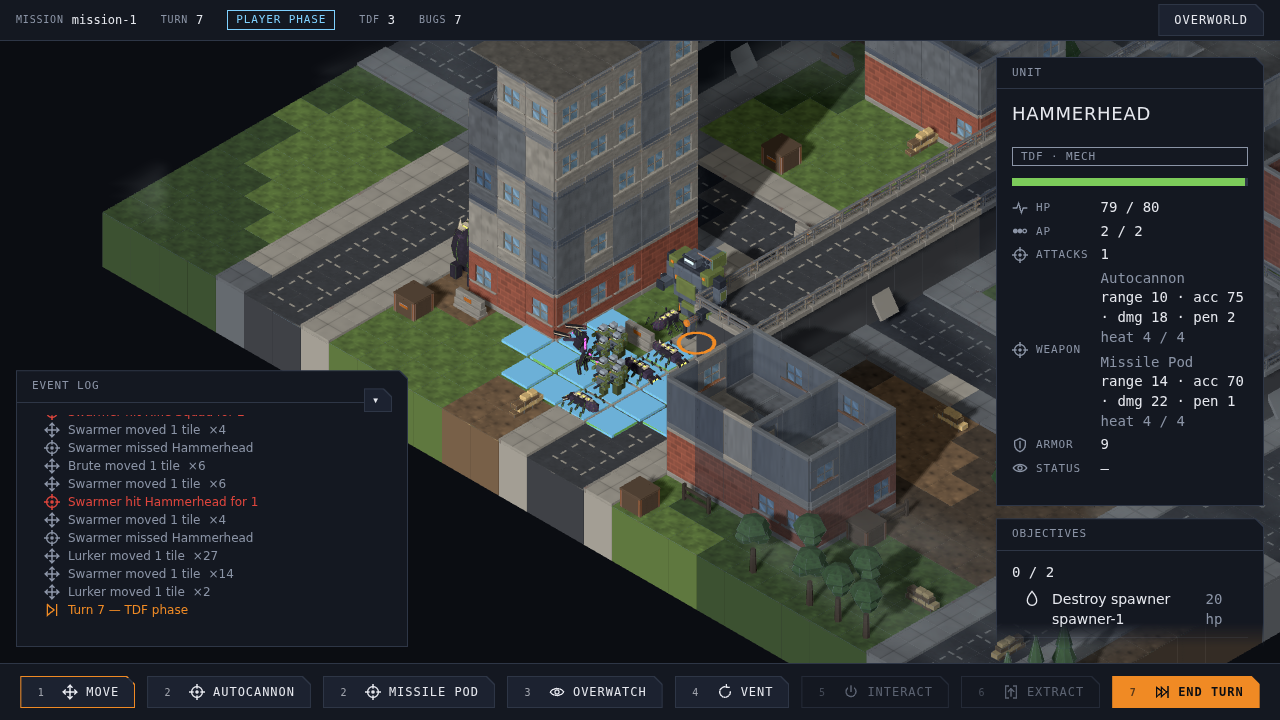
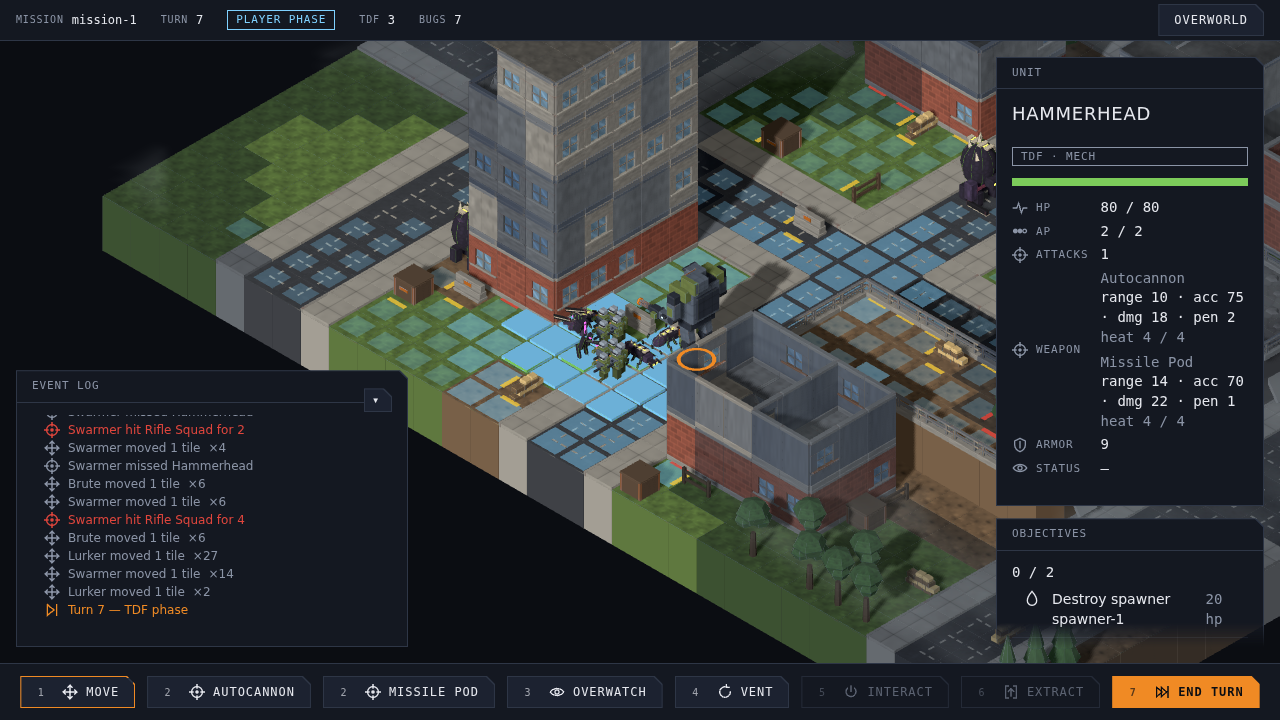
fix(mapgen): no raised feature carries a road; roads never dead-end into a face (#785) (#789)
Executive Director ruling from playtest 2: a lifted carriageway reads as
a road on a column, and the lower road it crosses dies into a black
wall. The simulation treats a raised tile as solid ground, so pillars
and an underpass would promise a route the player cannot take; a real
overpass is M3's. The elevation pass now skips every feature whose top
surface is road (viaduct, causeway). Terraces stay: plaza, podium,
raised-park, rail-embankment, rubble-mound, terrace.

Pinned in the generation sweep, over every seed of the matrix and the
wide sweep: every pair of orthogonally adjacent road tiles on different
levels is joined by a connector. Measured before the change, twelve
city maps per size: 234 / 532 / 781 unconnected steps. After: 0 on
every map of the matrix. Towns already held it (their plat ramps carry
the step); rural has no road steps at all.

Cost, city maps, 24 seeds per size: features placed 3.0 / 9.1 / 18.2
-> 1.0 / 3.7 / 9.8 -- the viaduct carried weight 8 of 27 and most of
the placements. Mech reach unchanged. A medium city can now place no
terrace on a given seed (coastal/0 does), so the "outdoor high ground"
test asserts over the set (>= 75 % of seeds) rather than per seed; the
#444 band was already breached by #762 and is further from reach now,
recorded rather than tuned.

Golden moved: golden-city only. Renders regenerated: the preview control
for seed 730982385 with the art path and no fog, and both seed-4242 fog
[…]

diff --git a/src/mapgen/generator/elevation-pass.test.ts b/src/mapgen/generator/elevation-pass.test.ts
@@ -49,7 +49,19 @@ describe("ElevationPass", () => {
     expect(pass.provides).toEqual(["elevation"]);
   });
 
-  it("gives a city outdoor ground a mech can stand on above the plat", () => {
+  it("gives city outdoor ground a mech can stand on above the plat", () => {
+    // City plats are graded flat, so this was zero on every seed before
+    // the pass (#444). The point is that outdoor height exists and that a
+    // mech is allowed on it. It was asserted per seed at 60+ tiles while
+    // viaducts carried most of the share; #785 disabled every
+    // road-surfaced feature and #762 keeps the rest a column off every
+    // lot, and a medium city can now place no terrace at all on a given
+    // seed (coastal/0 does). So this is asserted over the set: most seeds
+    // still get height, and a mech can stand on it. The share sitting well
+    // under #444's band is recorded on #785 and #762, not hidden here.
+    let seeds = 0;
+    let seedsWithHeight = 0;
+    let mechHighTotal = 0;
     for (const biome of BIOME_IDS) {
       for (let i = 0; i < SEEDS; i++) {
         const label = `${biome}/${i}`;
@@ -71,13 +83,15 @@ describe("ElevationPass", () => {
             tile.y > base &&
             (tile.pass & PassMask.MECH) === PassMask.MECH,
         ).length;
-        // City plats are graded flat, so this was zero on every seed
-        // before the pass (#444). The share is tuned against the band in
-        // the sweep; here the point is that outdoor height exists at all
-        // and that a mech is allowed on it.
-        expect(mechHigh, label).toBeGreaterThan(60);
+        seeds++;
+        if (mechHigh > 0) {
+          seedsWithHeight++;
+        }
+        mechHighTotal += mechHigh;
       }
     }
+    expect(seedsWithHeight / seeds).toBeGreaterThanOrEqual(0.75);
+    expect(mechHighTotal).toBeGreaterThan(0);
   });
 
   it("leaves every step it makes climbable, never a cliff", () => {
@@ -113,16 +127,19 @@ describe("ElevationPass", () => {
     }
   });
 
-  it("lifts carriageway and leaves every footway at the level it was", () => {
-    // A door opens onto the footway, so lifting that would strand the
-    // frontages along the run. Compared against the same seed generated
-    // without the pass: each pass draws from its own rng fork, so the
-    // road pass lays exactly the same streets either way.
+  it("never lifts a road, and leaves every footway where it was (#785)", () => {
+    // Raised tiles are solid ground to the simulation, so a lifted
+    // carriageway was a road on a column with the road it crossed dying
+    // into its face. The pass now skips every feature whose surface is
+    // road; this holds the same seed with and without the pass side by
+    // side and asserts no road column moved. Footways were never lifted
+    // (a door opens onto one) and still are not.
     const without = new PipelineMapGenerator(
       createSettlementPasses().filter((pass) => pass.id !== "elevation"),
       registries,
     );
     let raisedRoad = 0;
+    let raisedAnything = 0;
     for (let i = 0; i < SEEDS; i++) {
       const seed = hashSeed(`street-${i}`);
       const flat = without.run(params("city"), new Mulberry32Rng(seed)).draft;
@@ -137,13 +154,18 @@ describe("ElevationPass", () => {
           if (flat.groundSurfaceAt(x, z) === SurfaceIds.SIDEWALK) {
             expect(after, `footway ${x},${z} seed ${i}`).toBe(before);
           }
-          if (flat.isRoad(x, z) && after > before) {
+          if (flat.isRoad(x, z) && after !== before) {
             raisedRoad++;
+          }
+          if (after > before) {
+            raisedAnything++;
           }
         }
       }
     }
-    expect(raisedRoad).toBeGreaterThan(0);
+    expect(raisedRoad).toBe(0);
+    // The pass still does its job on the ground it is allowed: terraces.
+    expect(raisedAnything).toBeGreaterThan(0);
   });
 
   it("rails the edge of what it raises, without shutting a mech out (#508)", () => {

diff --git a/src/mapgen/service/generation-sweep.test.ts b/src/mapgen/service/generation-sweep.test.ts
@@ -25,6 +25,7 @@ import {
 import { PipelineMapGenerator } from "./pipeline-map-generator";
 import { ReachabilityService } from "./reachability-service";
 import { createSettlementPasses } from "./settlement-pipeline";
+import { SurfaceIds } from "../data/surfaces";
 import { TileIndex } from "./tile-index";
 
 const registries = createDefaultRegistries();
@@ -120,7 +121,7 @@ const GOLDENS: readonly Golden[] = [
     biome: "desert",
     settlement: "city",
     size: "large",
-    checksum: 1379561224,
+    checksum: 3653172638,
   },
 ];
 
@@ -139,6 +140,7 @@ describe("generation sweep", () => {
       let unreachableEntrances = 0;
       let hooks = 0;
       let relocations = 0;
+      let roadStepsWithoutConnector = 0;
       for (const size of MAP_SIZE_PRESETS) {
         for (const biome of BIOME_IDS) {
           for (const settlement of SETTLEMENT_SCALES) {
@@ -228,6 +230,41 @@ describe("generation sweep", () => {
                 (n) =>
                   n.pass === "connectivity" && n.message.includes("relocated"),
               ).length;
+              // #785: a road never dies into a higher face. Every pair of
+              // orthogonally adjacent road tiles on different levels is
+              // joined by a connector, or the lower one dead-ends into a
+              // wall — which is what a lifted carriageway did to the road
+              // it crossed. Towns step roads onto the plat and ramp them;
+              // cities used to fail this by the hundred.
+              const joined = new Set(
+                map.connectors.flatMap((c) => [
+                  `${String(c.from.x)},${String(c.from.z)}|${String(c.to.x)},${String(c.to.z)}`,
+                  `${String(c.to.x)},${String(c.to.z)}|${String(c.from.x)},${String(c.from.z)}`,
+                ]),
+              );
+              for (const tile of map.tiles) {
+                if (tile.surface !== SurfaceIds.ROAD) {
+                  continue;
+                }
+                for (const [dx, dz] of [
+                  [1, 0],
+                  [0, 1],
+                ] as const) {
+                  const next = index
+                    .column(tile.x + dx, tile.z + dz)
+                    .find((c) => c.surface === SurfaceIds.ROAD);
+                  if (next === undefined || next.y === tile.y) {
+                    continue;
+                  }
+                  if (
+                    !joined.has(
+                      `${String(tile.x)},${String(tile.z)}|${String(next.x)},${String(next.z)}`,
+                    )
+                  ) {
+                    roadStepsWithoutConnector++;
+                  }
+                }
+              }
             }
           }
         }
@@ -247,6 +284,10 @@ describe("generation sweep", () => {
         (tallMaps.town?.tall ?? 0) / (tallMaps.town?.maps ?? 1),
       ).toBeGreaterThanOrEqual(0.85);
       expect(relocations / hooks).toBeLessThanOrEqual(0.05);
+      // No road dead-ends into a raised face (#785). Measured 0 on every
+      // map of the matrix once road-surfaced features were disabled; the
+      // number was 234-781 per twelve city maps before.
+      expect(roadStepsWithoutConnector).toBe(0);
     },
     SWEEP_TIMEOUT_MS,
   );

diff --git a/src/mapgen/generator/elevation-pass.ts b/src/mapgen/generator/elevation-pass.ts
@@ -92,8 +92,15 @@ export class ElevationPass implements GenerationPass {
   run(context: GenerationContext): void {
     const { draft, params, registries, rng, diagnostics } = context;
     const { settlement } = params;
-    const eligible = registries.elevatedFeatures.values.filter((feature) =>
-      feature.scales.includes(settlement.id),
+    // No raised feature carries a road (#785). The simulation treats a
+    // raised tile as solid ground, so a lifted carriageway is a road on a
+    // column with a lower road dying into its face where they cross; a
+    // real overpass needs a passable underside and is M3's if it is
+    // anyone's. Terraces stay: a plaza with a retaining wall is a thing.
+    const eligible = registries.elevatedFeatures.values.filter(
+      (feature) =>
+        feature.scales.includes(settlement.id) &&
+        feature.surface !== SurfaceIds.ROAD,
     );
     const target = featureTarget(draft, settlement);
     if (eligible.length === 0 || target === 0) {

diff --git a/src/mapgen/data/elevated-features.ts b/src/mapgen/data/elevated-features.ts
@@ -24,6 +24,8 @@ import type { ElevatedFeature } from "../model/elevated-feature";
  */
 export const ELEVATED_FEATURES: readonly ElevatedFeature[] = [
   {
+    // Not placed since #785: the elevation pass skips every feature whose
+    // surface is road. Kept as the shape an M3 overpass would start from.
     id: "viaduct",
     shape: "viaduct",
     surface: SurfaceIds.ROAD,
@@ -51,6 +53,8 @@ export const ELEVATED_FEATURES: readonly ElevatedFeature[] = [
     scales: ["city"],
   },
   {
+    // Not placed since #785: the elevation pass skips every feature whose
+    // surface is road. Kept as the shape an M3 overpass would start from.
     id: "causeway",
     shape: "strip",
     surface: SurfaceIds.ROAD,
